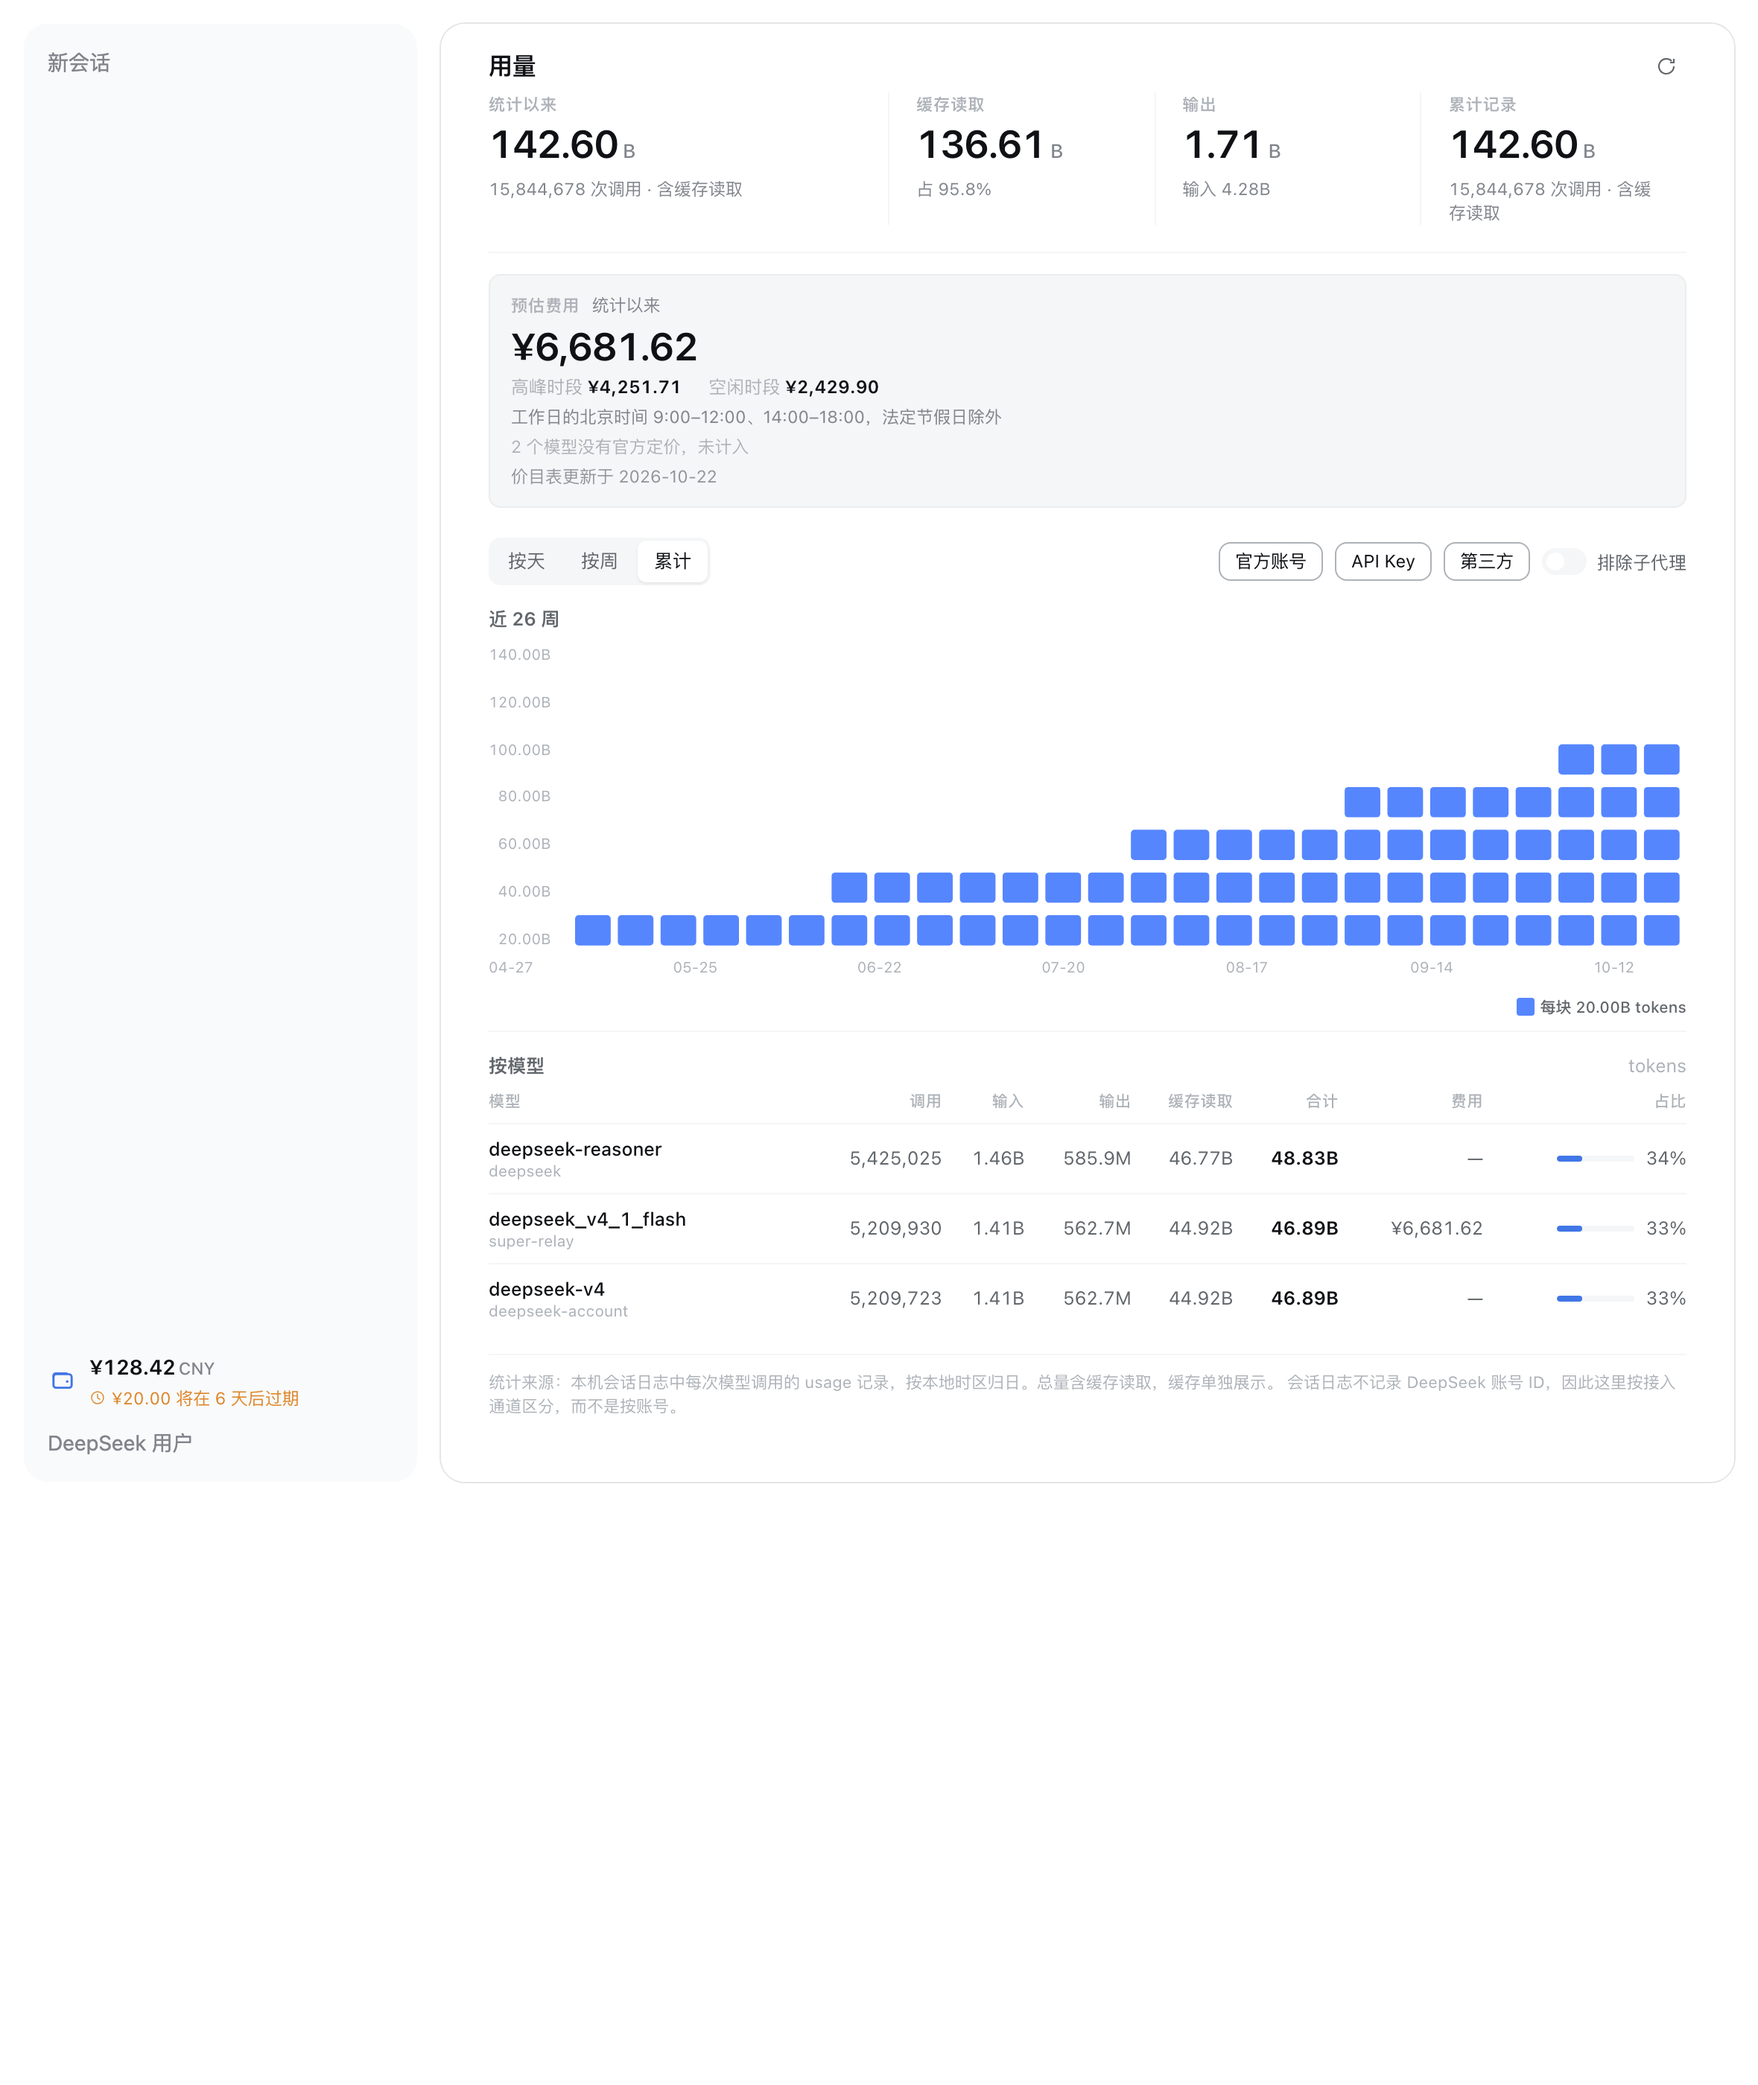
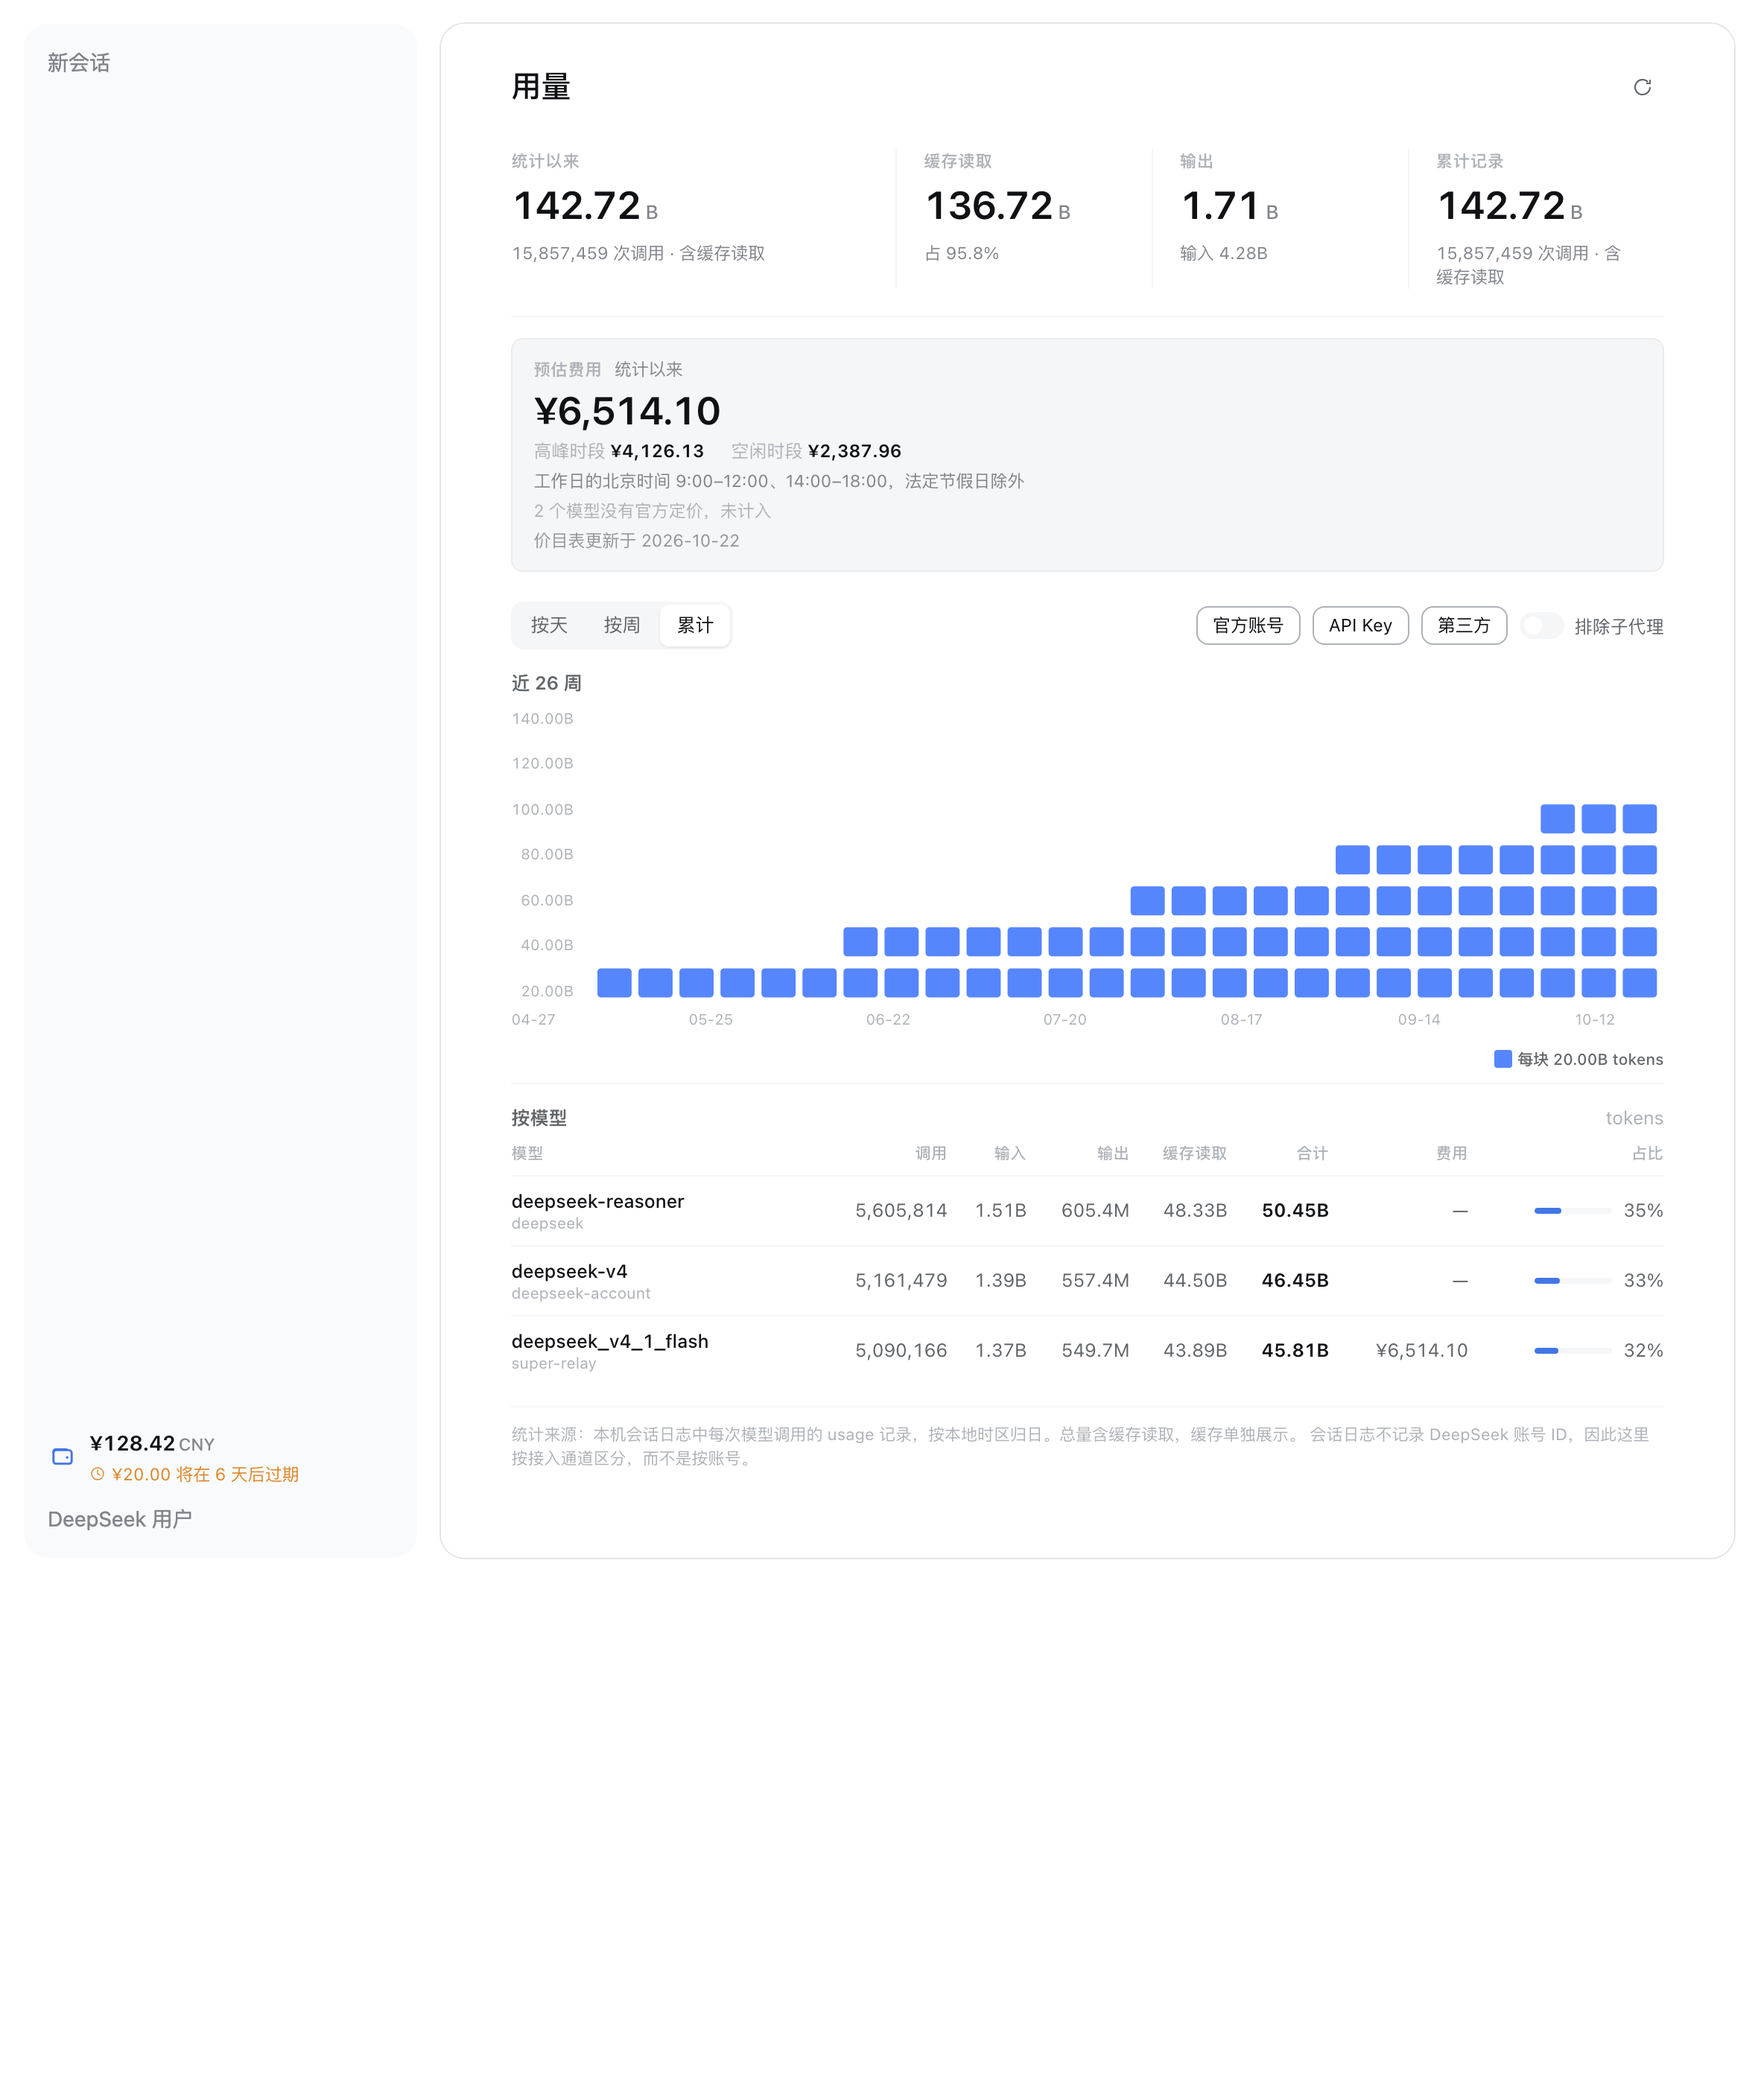
deepseek-usage: frame the panel the way the host frames a page
The heading was 16px/600 where every other page uses 20px/500 on a 28px line,
and it did not line up with its own content: the header padding and the body
padding were independent numbers, so the title sat at one inset and the blocks
below it at another.

The values now come from the host's automation-tasks page rather than being
guessed again: a 960px column, `clamp(24px, 4vw, 48px)` horizontal inset,
28px of clearance above the heading plus the platform's frame-top clearance,
and 24px between the heading and the content. Measured after the change: title
at the host's 20/500/28, content starting exactly where the host's own
pageHeading would put it, both at the same left edge.

The Settings mount is untouched — it still computes 0/24/28/24 with no width
cap, because the dialog already supplies that inset.

A test pins the frame against the host's numbers, including that the panel rule
does not leak into the settings mount. Checked by reintroducing the old 16px
heading and watching it fail.

diff --git a/packages/dsh-deepseek-usage/src/ui/styles.js b/packages/dsh-deepseek-usage/src/ui/styles.js
@@ -71,7 +71,7 @@ export function stylesheet() {
    only needs the inner rhythm. The main area does not: the shell hands the
    panel its full width with no padding, so the view has to provide the whole
    inset itself or the title sits flush against the top and both edges. */
-.dsu-view[data-container=panel]{padding:28px 32px 32px;margin:0 auto;width:100%;max-width:1120px;box-sizing:border-box}
+.dsu-view[data-container=panel]{padding:24px clamp(24px,4vw,48px) 48px;margin:0 auto;width:100%;max-width:960px;box-sizing:border-box}
 .dsu-kpis{display:grid;grid-template-columns:1.5fr 1fr 1fr 1fr;gap:0;padding:4px 0 18px;border-bottom:1px solid var(--dsw-alias-border-l1)}
 .dsu-kpi{display:flex;flex-direction:column;justify-content:flex-start;gap:3px;min-height:94px;padding-right:18px}
 .dsu-kpi+.dsu-kpi{padding-left:18px;border-left:1px solid var(--dsw-alias-border-l1)}
@@ -158,8 +158,8 @@ export function stylesheet() {
 .dsu-skeleton i:nth-child(3){width:100%;height:120px}
 
 .dsu-panel{display:flex;flex-direction:column;height:100%;min-height:0;background:var(--dsw-alias-bg-layer-1)}
-.dsu-panel-head{display:flex;align-items:center;gap:10px;padding:14px 32px 0;flex:none}
-.dsu-panel-title{margin:0;font-size:16px;font-weight:600;letter-spacing:-.01em}
+.dsu-panel-head{display:flex;align-items:center;gap:10px;flex:none;width:100%;max-width:960px;margin:0 auto;padding:calc(28px + var(--dsh-frame-top-clearance,0px)) clamp(24px,4vw,48px) 0;box-sizing:border-box}
+.dsu-panel-title{margin:0;min-width:0;max-width:100%;font-size:20px;font-weight:500;line-height:28px;letter-spacing:0}
 .dsu-panel-actions{display:flex;align-items:center;gap:6px;margin-left:auto}
 .dsu-icon-btn{display:grid;place-items:center;width:28px;height:28px;padding:0;border:0;border-radius:var(--dsw-radius-sm);background:transparent;color:var(--dsw-alias-label-secondary);cursor:pointer;transition:background-color .12s ease,color .12s ease}
 .dsu-icon-btn:hover{background:var(--dsw-alias-interactive-bg-hover);color:var(--dsw-alias-label-primary)}

diff --git a/packages/dsh-deepseek-usage/lib/client.js b/packages/dsh-deepseek-usage/lib/client.js
@@ -854,7 +854,7 @@ function stylesheet() {
    only needs the inner rhythm. The main area does not: the shell hands the
    panel its full width with no padding, so the view has to provide the whole
    inset itself or the title sits flush against the top and both edges. */
-.dsu-view[data-container=panel]{padding:28px 32px 32px;margin:0 auto;width:100%;max-width:1120px;box-sizing:border-box}
+.dsu-view[data-container=panel]{padding:24px clamp(24px,4vw,48px) 48px;margin:0 auto;width:100%;max-width:960px;box-sizing:border-box}
 .dsu-kpis{display:grid;grid-template-columns:1.5fr 1fr 1fr 1fr;gap:0;padding:4px 0 18px;border-bottom:1px solid var(--dsw-alias-border-l1)}
 .dsu-kpi{display:flex;flex-direction:column;justify-content:flex-start;gap:3px;min-height:94px;padding-right:18px}
 .dsu-kpi+.dsu-kpi{padding-left:18px;border-left:1px solid var(--dsw-alias-border-l1)}
@@ -941,8 +941,8 @@ function stylesheet() {
 .dsu-skeleton i:nth-child(3){width:100%;height:120px}
 
 .dsu-panel{display:flex;flex-direction:column;height:100%;min-height:0;background:var(--dsw-alias-bg-layer-1)}
-.dsu-panel-head{display:flex;align-items:center;gap:10px;padding:14px 32px 0;flex:none}
-.dsu-panel-title{margin:0;font-size:16px;font-weight:600;letter-spacing:-.01em}
+.dsu-panel-head{display:flex;align-items:center;gap:10px;flex:none;width:100%;max-width:960px;margin:0 auto;padding:calc(28px + var(--dsh-frame-top-clearance,0px)) clamp(24px,4vw,48px) 0;box-sizing:border-box}
+.dsu-panel-title{margin:0;min-width:0;max-width:100%;font-size:20px;font-weight:500;line-height:28px;letter-spacing:0}
 .dsu-panel-actions{display:flex;align-items:center;gap:6px;margin-left:auto}
 .dsu-icon-btn{display:grid;place-items:center;width:28px;height:28px;padding:0;border:0;border-radius:var(--dsw-radius-sm);background:transparent;color:var(--dsw-alias-label-secondary);cursor:pointer;transition:background-color .12s ease,color .12s ease}
 .dsu-icon-btn:hover{background:var(--dsw-alias-interactive-bg-hover);color:var(--dsw-alias-label-primary)}

diff --git a/packages/dsh-deepseek-usage/README.md b/packages/dsh-deepseek-usage/README.md
@@ -156,6 +156,9 @@ row's menu, from the sidebar's panel list, and from **Settings → Usage**.
 
 ## Boundaries
 
+- The panel is framed like a host page: a 960px column, a 20px/500 heading on a 28px line, 28px
+  of clearance above it and 24px beneath. The Settings dialog supplies its own inset, so that mount
+  keeps a separate rule; changing the panel frame must not touch it.
 - The row's **Usage** entry opens a **main-area panel**, not the Settings dialog. A third-party
   bundle cannot address a Settings section directly, and a year of heatmap lanes needs the wider
   column anyway. The same view is also registered as a Settings section for people who look there.
